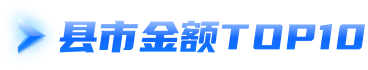
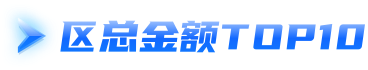
bug fix

Changed region(s): [[0.1495, 0.3143, 0.3886, 0.7714], [0.2989, 0.2857, 0.3886, 0.3429]]

diff --git a/src/components/UnionDetailDialog.vue b/src/components/UnionDetailDialog.vue
@@ -54,7 +54,7 @@
         <template v-if="tab==='unit'">
           <div class="card">
             <template v-if="!unitEmpty">
-              <ul class="info">
+              <ul class="info info--unit">
                 <li v-for="(r, i) in rowsUnit" :key="i" class="info__row">
                   <span class="lab">{{ r[0] }}</span><span class="val">{{ r[1] }}</span>
                   <span class="lab">{{ r[2] }}</span><span class="val">{{ r[3] }}</span>
@@ -593,12 +593,15 @@ if (typeof window !== 'undefined') {
 .info__row:nth-child(even) { background: rgba(87, 151, 255, .22); }
 .info__row::before { content: ''; position: absolute; left: 50%; top: 0; bottom: 0; width: 1px; background: rgba(60, 120, 220, .35); }
 
-.lab { padding: 8px 12px; color: #2a6ff0; font-weight: 800; font-size: 13px; white-space: nowrap; }
+.lab { padding: 8px 12px; color: #2a6ff0; font-weight: 800; font-size: 13px; white-space: nowrap; overflow: hidden; text-overflow: ellipsis; }
 .val { padding: 8px 12px; color: #333; font-weight: 600; font-size: 13px; }
 
 /* 次级信息样式与会员详情保持一致 */
 .info--flat .info__row { grid-template-columns: 180px 1fr; min-height: 44px; }
 .info--flat .info__row::before { display: none; }
+
+/* 单位信息：两侧标签更长，放大标签列宽避免重叠 */
+.info--unit .info__row { grid-template-columns: 220px 1fr 220px 1fr; }
 
 /* tabs */
 .tabs { display: flex; gap: 6px; margin: 12px 0 6px; }

diff --git a/src/pages/RefundDetailListPage.vue b/src/pages/RefundDetailListPage.vue
@@ -68,8 +68,8 @@ const orderOpts = [
   { label: '代收金额', value: 'zje' },
   { label: '省总金额', value: 'szje' },
   { label: '企业产业金额', value: 'qycyje' },
-  { label: '市州金额', value: 'dsje' },
-  { label: '县区金额', value: 'xsje' },
+  { label: '市总金额', value: 'dsje' },
+  { label: '区总金额', value: 'xsje' },
   { label: '基层金额', value: 'jcje' },
   { label: '手续费', value: 'sxf' },
 ];
@@ -93,8 +93,8 @@ const columns: ColumnDef[] = [
   { key: 'zje', title: '代收金额', formatter: (v)=>moneyFmt(v) },
   { key: 'szje', title: '省总金额', formatter: (v)=>moneyFmt(v) },
   { key: 'qycyje', title: '企业产业金额', formatter: (v)=>moneyFmt(v) },
-  { key: 'dsje', title: '市州金额', formatter: (v)=>moneyFmt(v) },
-  { key: 'xsje', title: '县区金额', formatter: (v)=>moneyFmt(v) },
+  { key: 'dsje', title: '市总金额', formatter: (v)=>moneyFmt(v) },
+  { key: 'xsje', title: '区总金额', formatter: (v)=>moneyFmt(v) },
   { key: 'jcje', title: '基层金额', formatter: (v)=>moneyFmt(v) },
   { key: 'sxf', title: '手续费', formatter: (v)=>moneyFmt(v) },
 ];

diff --git a/src/components/dashboard/WuhanMap.vue b/src/components/dashboard/WuhanMap.vue
@@ -52,10 +52,8 @@ import * as echarts from 'echarts';
 import { onMounted, onBeforeUnmount, ref, shallowRef, computed, watch } from 'vue';
 import CountUpNumber from '../CountUpNumber.vue';
 // 本地 geoJSON（武汉各区）
-// 注意：文件较大，已作为 js 导出
-// eslint-disable-next-line @typescript-eslint/ban-ts-comment
-// @ts-ignore
-import wuhanGeo from '../../utils/wuh.js';
+// 注意：文件较大，使用 JSON 静态文件导入
+import wuhanGeo from '../../utils/wuh2.json';
 
 type DistrictName = string;
 

diff --git a/src/pages/MemberV2.vue b/src/pages/MemberV2.vue
@@ -320,7 +320,7 @@ async function fetchThreeDept() {
   }
   
   .title-img--member-5 {
-    width: 212px;
+    width: 272px;
       /* 新图宽度 212 */
       height: 35px;
       /* 中行中模块：使用 member-v2/title/2 */
